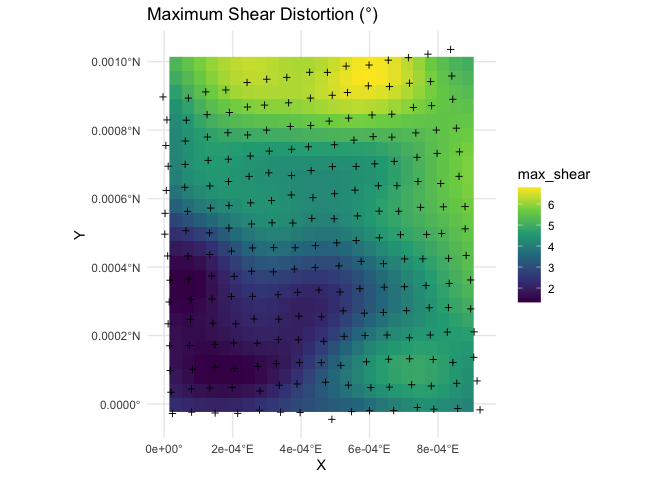
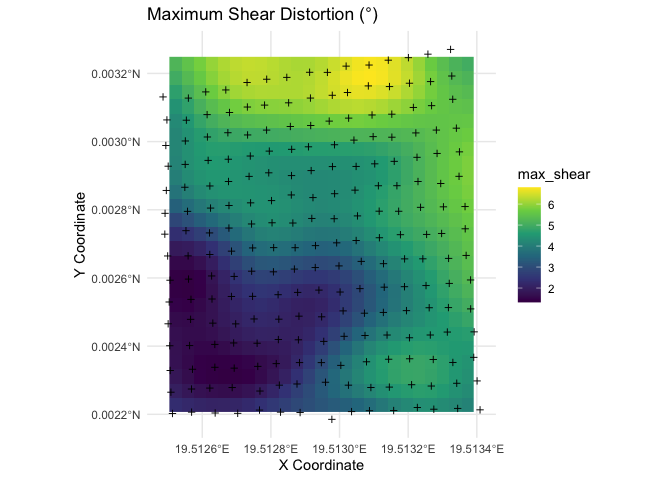
add swiss data

diff --git a/README.md b/README.md
@@ -67,8 +67,8 @@ library(ggplot2)
 # Generate a shapefile and a GCPs CSV with complex distortions
 # The function returns a list containing the paths to these new files.
 demo_files <- create_demo_data(type = "complex", seed = 42)
-#>    -> Homologous points saved to: /var/folders/yh/kq6cp_457lg059f3l02r57s80000gn/T//RtmpJBkSUk/demo_gcps.csv
-#>    -> Distorted map saved to: /var/folders/yh/kq6cp_457lg059f3l02r57s80000gn/T//RtmpJBkSUk/demo_map.shp
+#>    -> Homologous points saved to: /var/folders/yh/kq6cp_457lg059f3l02r57s80000gn/T//RtmpCeimEC/demo_gcps.csv
+#>    -> Distorted map saved to: /var/folders/yh/kq6cp_457lg059f3l02r57s80000gn/T//RtmpCeimEC/demo_map.shp
 ```
 
 ### 2. Read the Data into R
@@ -80,10 +80,10 @@ paths here with the paths to your own `.shp` and `.csv` files.
 ``` r
 # Load the homologous points (GCPs)
 # It is crucial to provide the correct Coordinate Reference System (CRS).
-gcp_data <- read_gcps(gcp_path = demo_files$gcp_path, crs = 3857)
+gcp_data <- read_gcps(gcp_path = demo_files$gcp_path, crs = 2100)
 
 # Load the distorted vector map
-map_to_correct <- read_map(shp_path = demo_files$shp_path, crs = 3857)
+map_to_correct <- read_map(shp_path = demo_files$shp_path, crs = 2100)
 ```
 
 ### 3. Train a Correction Model
@@ -106,7 +106,7 @@ returns a new `sf` object with the corrected geometries.
 ``` r
 # Apply the model to the distorted map
 corrected_map <- apply_pai_model(gam_model, map_to_correct)
-#> Applying PAI model: correcting map features...
+#> Applying PAI model to map features...
 #> Correction complete.
 ```
 
